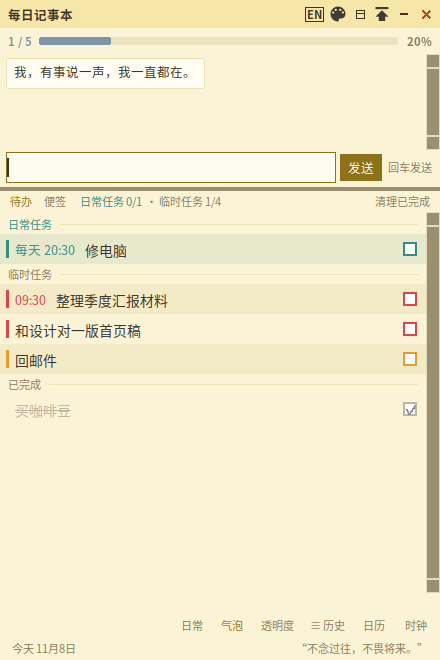
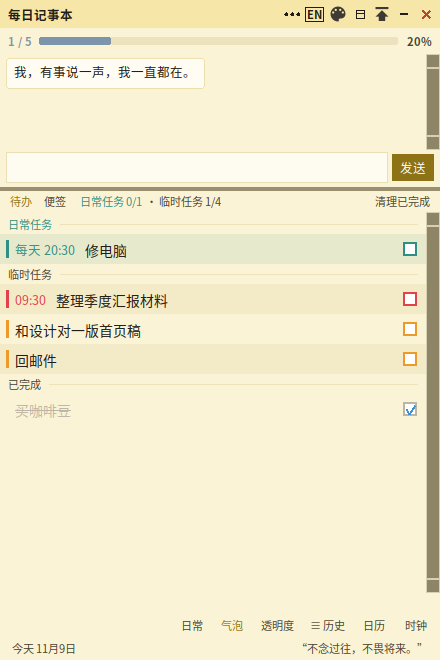
README+截图更新至 v1.9.9.59：标题栏「···」/新时钟字号/管理窗右键无优先级入图；新增便签详情、关于窗截图；测试数 487→667

diff --git a/README.md b/README.md
@@ -24,10 +24,10 @@
 - **到点提醒**：可设提前 5/15/30/60 分钟，或指定具体时刻；到点弹窗 + 铃声，右下角悬浮卡片可拖动。
 - **过期询问**：截止时间已过的任务不会静默加入，先问「还要不要」，避免脏数据。
 - **撤回机制**：说「撤回」撤销上一步——建错任务、设错截止时间、设错提醒时刻都能撤，撤完可直接重新输入。
-- **日常任务**：每天 / 每周循环任务（「每天修电脑」「每周一背单词」）单独收纳在管理窗里，主窗口只显示今天该做的，支持右键改时间、调优先级。
+- **日常任务**：每天 / 每周循环任务（「每天修电脑」「每周一背单词」）单独收纳在管理窗里，主窗口只显示今天该做的，支持右键改时间、编辑、删除。
 - **待办栏**：右键改名 / 调优先级 / 删除；双击标题内联编辑；勾选完成自动划线下沉；顶部进度条一目了然。
 - **时钟工具**：秒表 + 倒计时（设定档位 → 开始 → 暂停 → 继续 → 清零）+ 日历（按天回看记录，含节假日）。
-- **透明度 / 置顶 / 便签**：窗口可半透明、可置顶、可拖动缩放。
+- **透明度 / 置顶 / 便签**：窗口可半透明、可置顶、可拖动缩放；便签支持全文详情查看与局部修改。
 - **历史归档**：每天任务自动归档，不限制保留天数，随时回看做了什么。
 - **中英双语**：一键切换，界面文案、哲言、任务解析全适配。
 - **八套主题**：随心情换配色。
@@ -46,7 +46,14 @@
 | 时钟 | 日历 | 日常任务管理窗 |
 |---|---|---|
 | ![时钟](screenshots/截图-时钟.png) | ![日历](screenshots/截图-日历跳转与节假日.png) | ![日常任务管理窗](screenshots/日常任务管理窗.png) |
-| **时钟**（独立窗口）：正计时秒表 + 倒计时（5/25/45 分钟快捷档），可关联某个任务专心计时；窗口置顶、铃声可换 | **日历**（独立窗口）：按天回看每天做了什么，法定节假日带「休 / 班」角标，可快速跳转任意日期 | **日常任务管理窗**（独立窗口）：所有每天 / 每周的循环任务集中在这里；右键可改时间、调优先级、编辑、删除；主窗口只显示「今天该做的」，不会天天刷屏 |
+| **时钟**（独立窗口）：正计时秒表 + 倒计时（5/25/45 分钟快捷档），可关联某个任务专心计时；窗口置顶、铃声可换 | **日历**（独立窗口）：按天回看每天做了什么，法定节假日带「休 / 班」角标，可快速跳转任意日期 | **日常任务管理窗**（独立窗口）：所有每天 / 每周的循环任务集中在这里；右键可标记完成、编辑内容、修改时间、删除（日常任务不分优先级）；主窗口只显示「今天该做的」，不会天天刷屏 |
+
+### 便签详情与关于
+
+| 便签详情 | 关于窗 |
+|---|---|
+| ![便签详情](screenshots/截图-便签详情.png) | ![关于窗](screenshots/截图-关于窗.png) |
+| **便签详情**（独立窗口）：点开便签看全文、自动换行，底部「修改内容」可直接编辑原文，「保存」即写回 | **关于窗**：点标题栏「···」打开（图标点前点后会变色）；软件介绍、使用小技巧、主要功能一页看全 |
 
 ### 更多
 
@@ -98,7 +105,7 @@ python main.py
 
 ```
 每日记事本/
-├── main.py            # 主程序：UI、对话流程、状态机（约 9800 行）
+├── main.py            # 主程序：UI、对话流程、状态机（约 10400 行）
 ├── parser.py          # 中文自然语言解析：时间 / 日期 / 时长 / 优先级 / 重复
 ├── parser_en.py       # 英文解析器
 ├── i18n.py            # 中英双语文案表
@@ -106,7 +113,7 @@ python main.py
 ├── quotes.py          # 底部哲言库
 ├── holidays.py        # 节假日数据（日历用）
 ├── assets/            # 图标（ico / png）
-├── tests/             # pytest 自动化测试（487 个用例）
+├── tests/             # pytest 自动化测试（667 个用例）
 ├── 使用说明.md         # 完整使用手册 + 逐版本更新日志
 ├── 打包.bat           # Windows 一键打包脚本
 └── 每日记事本.spec     # PyInstaller 配置
@@ -121,7 +128,7 @@ pip install pytest
 pytest tests/ -q
 ```
 
-487 个用例，覆盖解析准确率、对话流程、跨天归档、中英切换、撤回语义、GUI 交互、打包配置等。
+667 个用例，覆盖解析准确率、对话流程、跨天归档、中英切换、撤回语义、GUI 交互、打包配置等。
 
 ---
 
